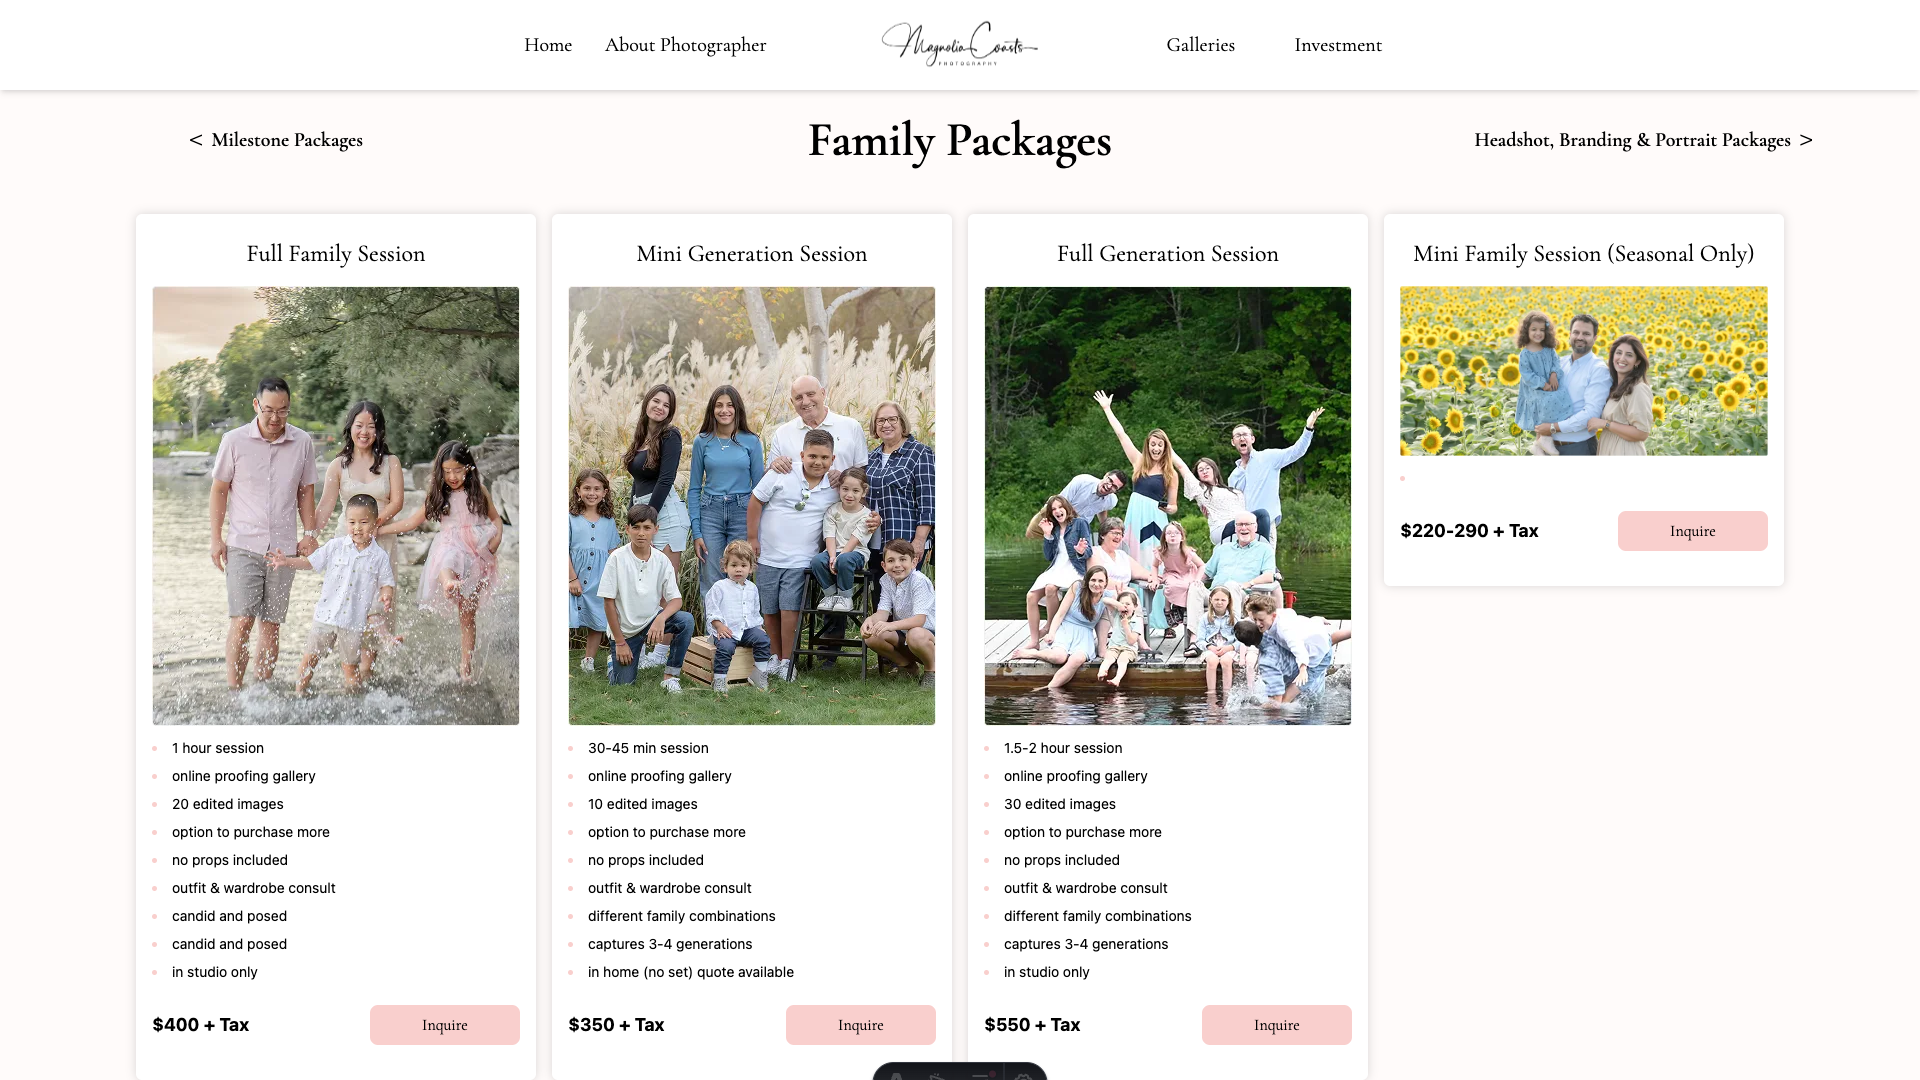
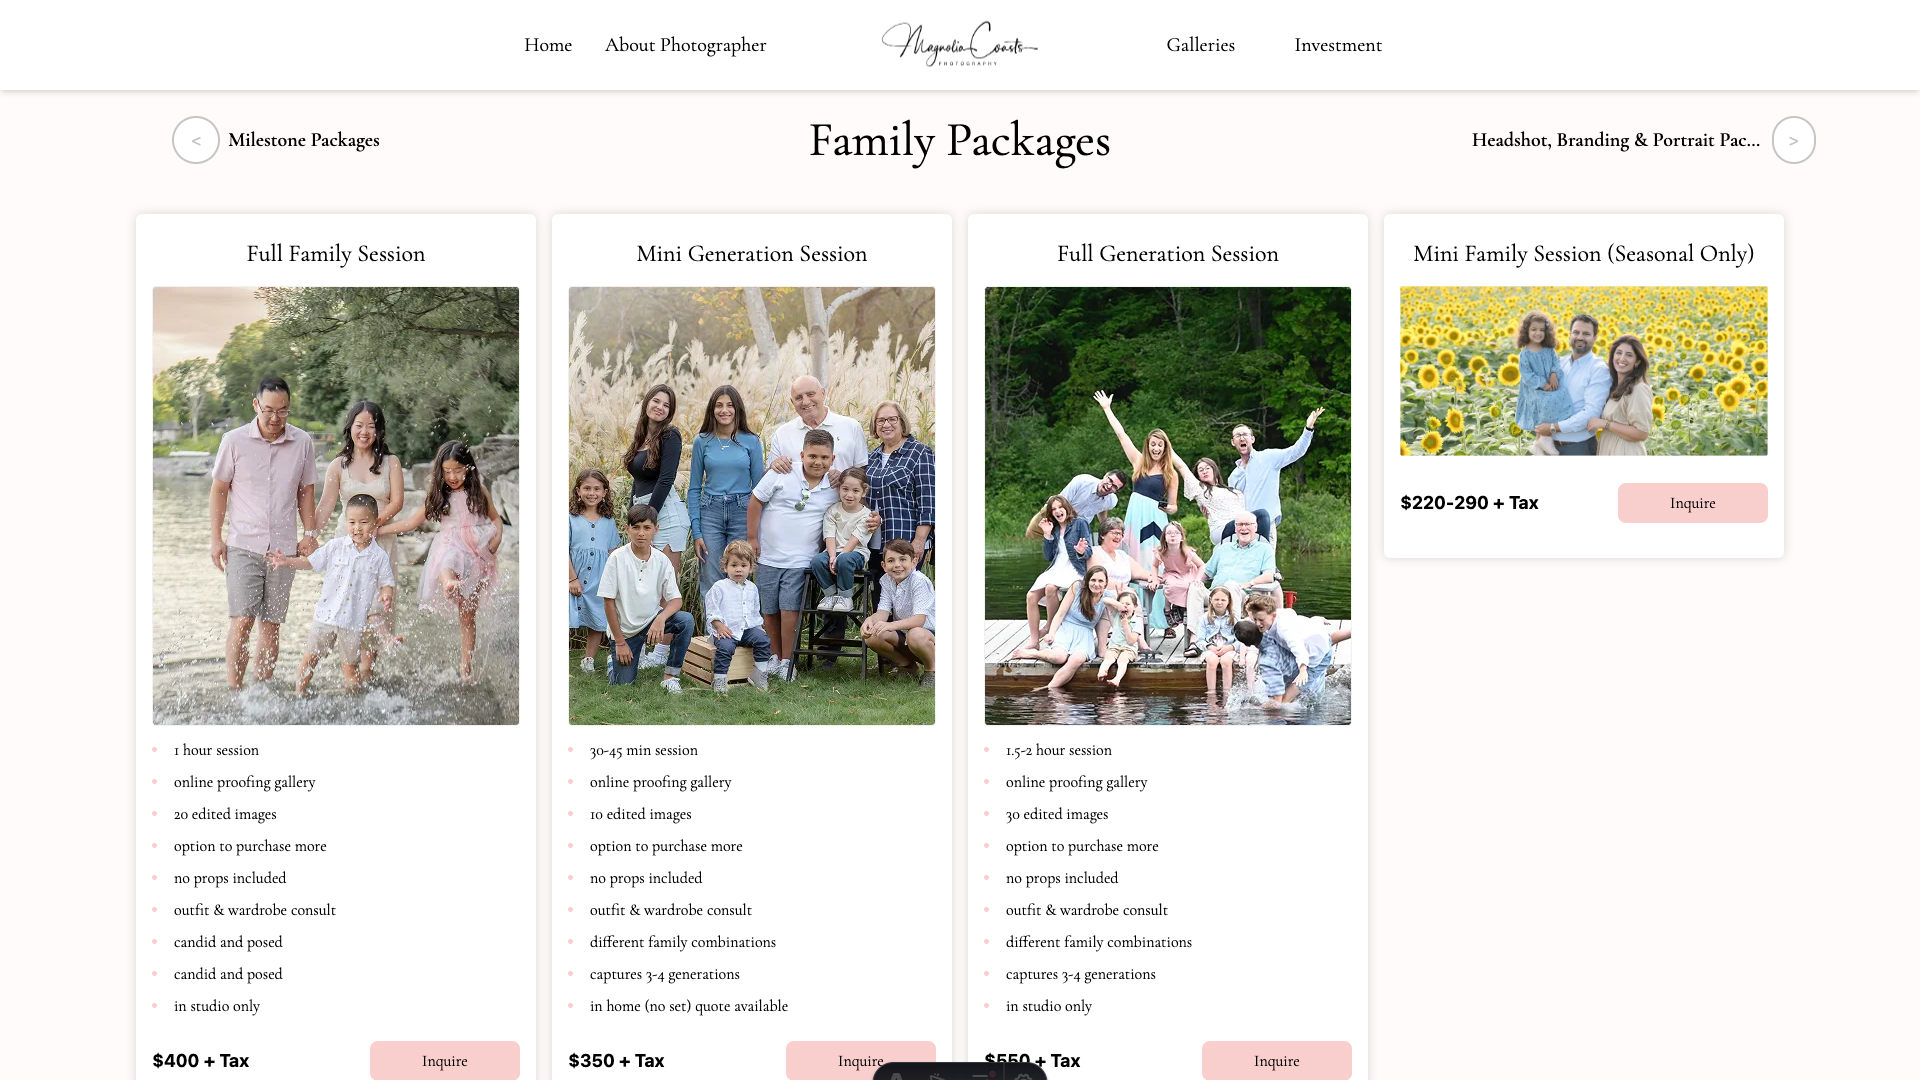
fix bug in the card style layout for small cards

diff --git a/src/content.config.ts b/src/content.config.ts
@@ -12,6 +12,7 @@ const packageSchema = z
     details: z.array(z.string()),
     price: z.number().optional(),
     priceRange: z.string().optional(),
+    cardStyle: z.string().optional()
   })
   .refine(
     (data) =>

diff --git a/src/data/familyPackages/miniFamily.md b/src/data/familyPackages/miniFamily.md
@@ -2,6 +2,7 @@
 title: Mini Family Session (Seasonal Only)
 sortOrder: 4
 priceRange: 220-290
+cardStyle: 'h-fit'
 details:
   - ""
 ---
